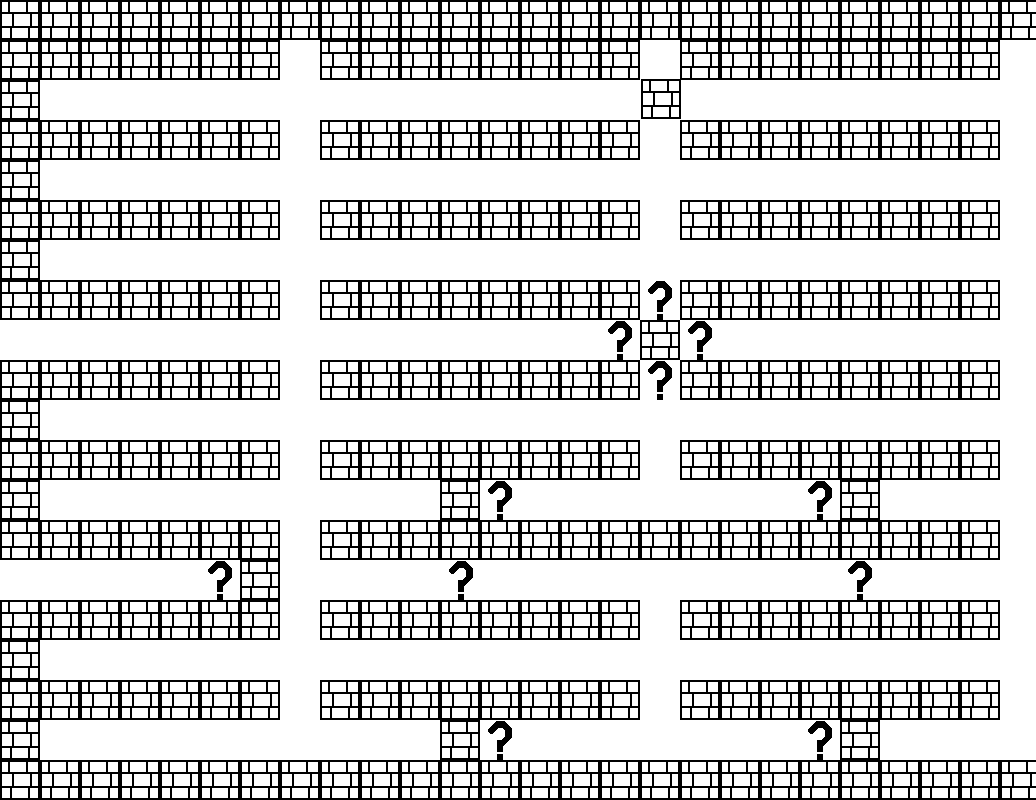
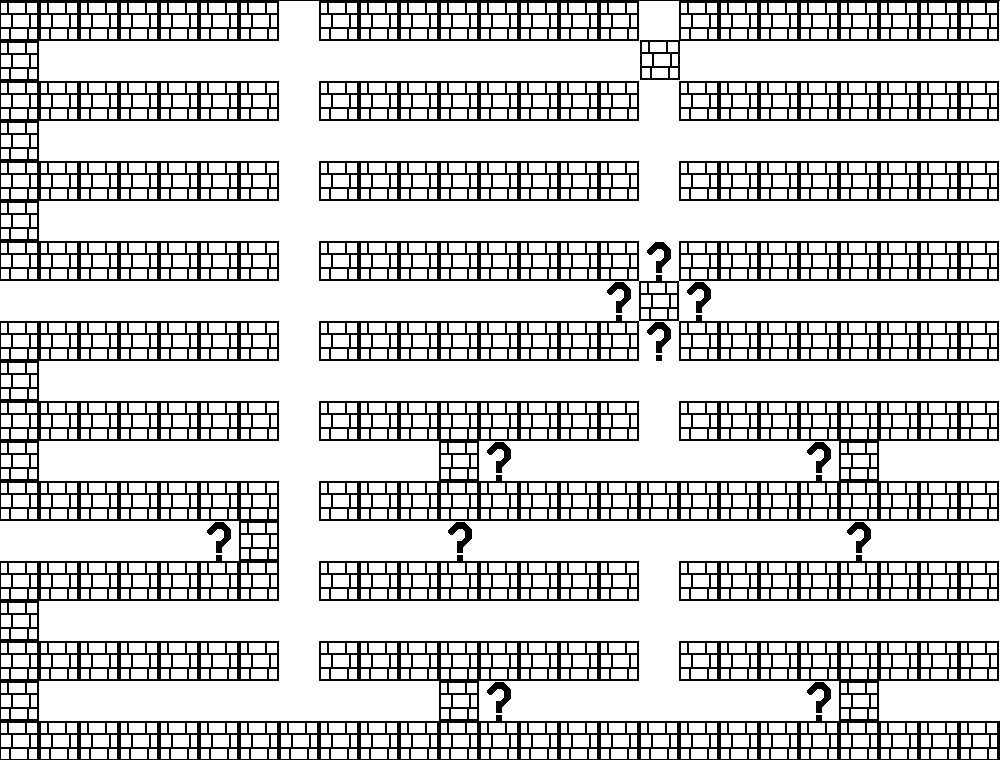
updated sprites to 20x20 px

diff --git a/src/FrontEnd/GUI.html b/src/FrontEnd/GUI.html
@@ -11,6 +11,15 @@
     *{
         box-sizing: border-box;
     }
+    .imgbox{
+        display: grid;
+        height: 100%;
+    }
+    .center-fit{
+        max-width: 100%;
+        max-height: 100%;
+        margin: auto;
+    }
     body{
         font-family: Arial, Helvetica, sans-serif;
     }
@@ -18,13 +27,13 @@
         background-color: dimgrey;
         padding: 10px;
         text-align: center;
-        font-size: 15px;
+        font-size: 12px;
         color: white;
     }
     nav{
         float: left;
         width: 15%;
-        height: 650px;
+        height: 700px;
         background: gray;
         padding: 10px;
     }
@@ -49,6 +58,9 @@ Enter Username: <input type="text" id="user">
 </body>
 
 <body>
+<script src = getMaze.js>
+    var y;
+</script> <!-- grab number of players from Play.scala -->
 
 <header>
     <h1>Maze MMO</h1>
@@ -73,13 +85,18 @@ Enter Username: <input type="text" id="user">
     </nav>
 
     <article>
-        <img src="../Resources/Maze/mazeTemp.png" alt="maze">
+        <div class="imgbox">
+            <img class="center-fit"  alt = "maze" src="../Resources/Maze/mazeTemp.png">
+        </div>
     </article> <!--Section for the actual maze-->
 
     <nav>
         <ul> <!--List of other information for the users-->
-            <li>spots left here<br></li>
-            <li>other information<br></li>
+            <li>spots left: <script type="text/javascript">
+                document.write(y)
+            </script>
+                <br></li>
+            <li><br></li>
             <li>other information<br></li>
             <li>other information<br></li>
             <li>other information<br></li>
